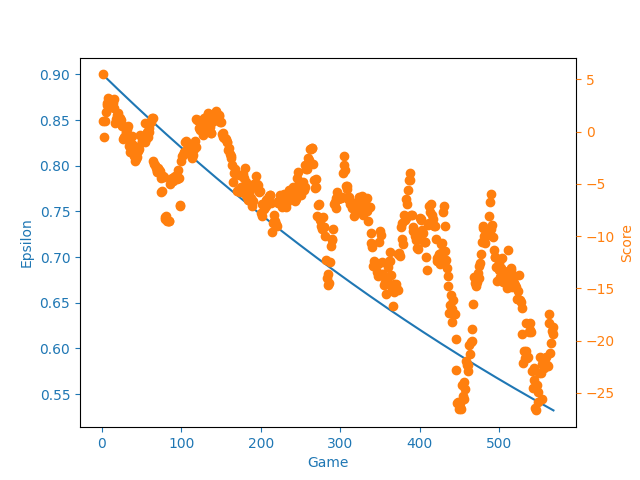
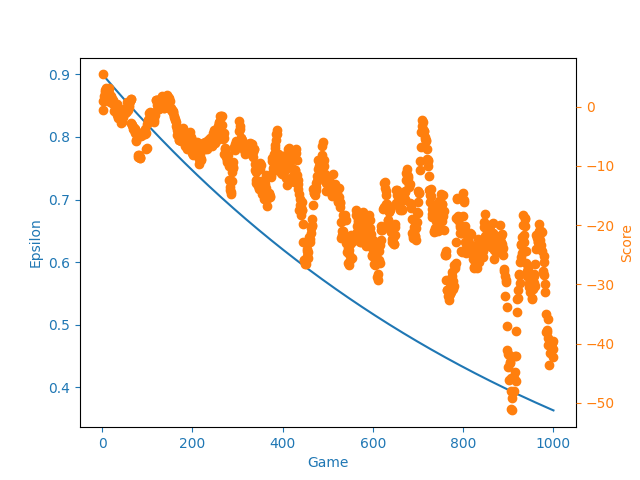
current

diff --git a/test6.py b/test6.py
@@ -1,0 +1,101 @@
+import gymnasium as gym
+import torch as T
+import numpy as np
+from envs.env import Basic
+from core.utils import plotLearning
+
+from DQN.Agent2 import Agent2
+
+
+EPISODES=1000
+SHOW_EVERY=100
+STEPS=8000
+BATCH_SIZE = 128
+GAMMA = 0.99
+EPS_START = 1
+EPS_END = 0.05
+EPS_DECAY = 100
+TAU = 0.005
+LR = 1e-4
+
+
+env = Basic("nets/3x3/3x3.net.xml","nets/3x3/3x3.rou.xml")
+agent = Agent2(4,3,GAMMA,EPS_START,EPS_END,EPS_DECAY,TAU,LR,BATCH_SIZE)
+
+
+
+
+# agent = Agent(gamma=DISCOUNT, epsilon=epsilon, batch_size=BATCH_SIZE, n_actions=3, eps_end=MIN_EPSILON, input_dims=[4], lr=LEARNING_RATE,eps_dec=EPSILON_DECAY)
+scores,eps_history=[],[]
+
+count=0
+Failed=False
+for episode in range(EPISODES):
+    score=0
+    episode_reward = 0
+    
+    done=False
+    count+=1
+    if episode % SHOW_EVERY==0:
+        env.render()
+    state ,no_choice,lane, out_dict= env.reset()
+    start_lane=lane
+    step=0
+    
+    
+    
+    
+    while not done:
+         if step >= STEPS:
+            done = True
+            reward = -1
+            score += reward 
+            Failed = True  
+            print("Starting From: "+start_lane) 
+            print("failed after "+str(step) +" steps")
+             
+         else:
+             Failed = False
+             lane=lane.partition('_')[0]
+             if not no_choice and  lane in out_dict.keys(): 
+                temp=list(out_dict[lane].keys())
+        
+                space=len(out_dict[lane])
+                score+=-0.01
+                # action = agent.choose_action(state,space)
+                action,epsilon=agent.select_action(state,step,episode)
+               
+                new_state, reward, done, info, no_choice ,lane= env.step(action) 
+                score += reward  
+                # agent.store_transition(state, action, reward, new_state, done)
+                agent.optimize_model()
+                state = new_state
+                step += 1
+                
+             else:
+                 score+=-0.01
+                 action = None
+                 new_state, reward, done, info, no_choice ,lane= env.step(action)     
+                 score += reward
+                 state = new_state
+                 step += 1
+                
+       
+    if not Failed:
+        print("Starting From: "+start_lane) 
+        print("success after "+str(step) +" steps")       
+    scores.append(score)
+    eps_history.append(epsilon)
+    avg_score = np.mean(scores[-100:])
+    print('episode: ', episode,'score: %.2f' % score,
+            ' average score %.2f' % avg_score,
+            'epsilon %.2f' % epsilon)
+    x = [i+1 for i in range(len(scores))]
+    filename = 'sumo-agent.png'
+    plotLearning(x, scores, eps_history, filename)
+    
+    
+        
+        
+        
+    env.close()

diff --git a/DQN/Agent2.py b/DQN/Agent2.py
@@ -72,7 +72,7 @@ class Agent2:
 
 
     def select_action(self,state,steps_done,episode):
-        state = state
+        
         state=state.to(self.device)
         self.steps_done=steps_done
         sample = random.random()
